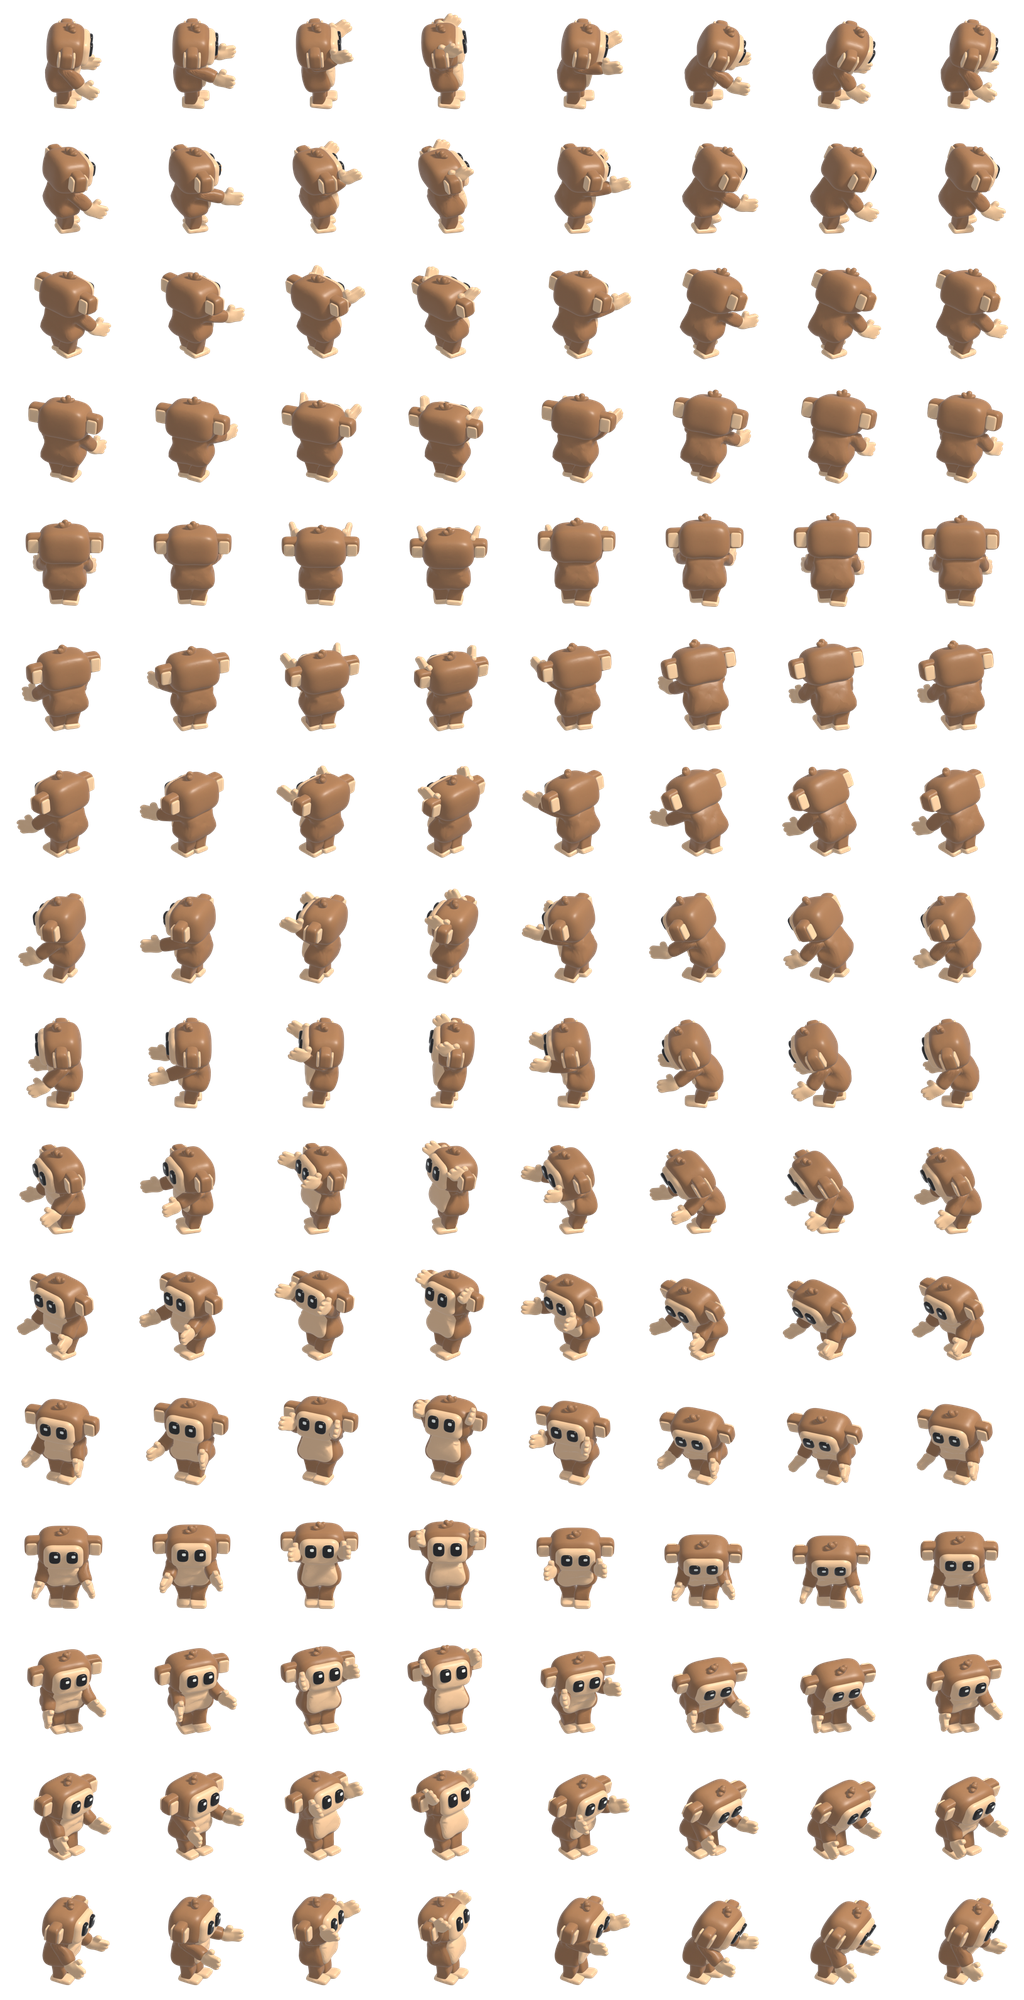
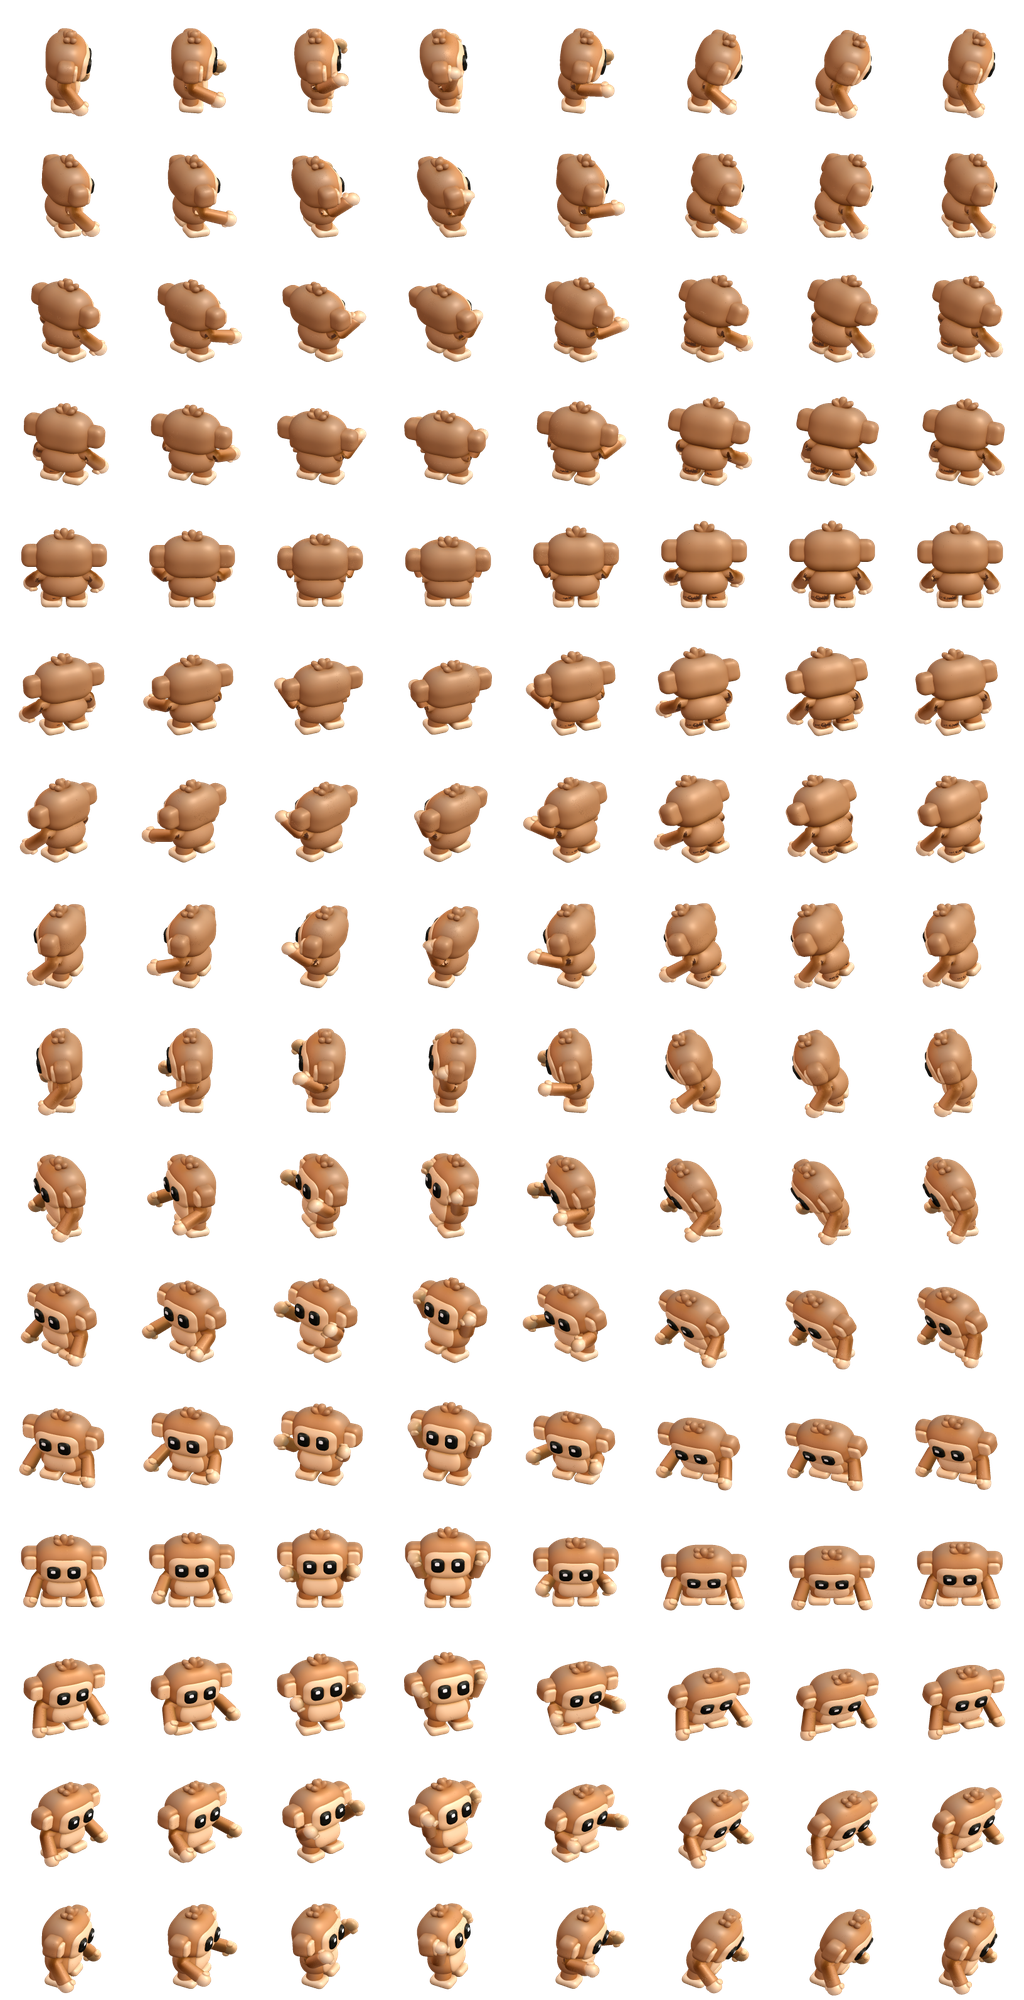
feat(player): render the player sheets from the final monkey model
The final model (no rig, T-pose) goes through the earlier path again:
player_model/build_final.py lets its arms down in Blender, weights it by
regions into model.npz, and player_model.py deforms it with the box poses.
The figure stands 225 units tall instead of 250.

player_rig.py keeps the rigged path and gains --tpose and --views (clay
finish) reference pictures.

Changed region(s): [[0.0, 0.0, 1.0, 1.0]]

diff --git a/artifacts/vox/player/player_model/build_final.py b/artifacts/vox/player/player_model/build_final.py
@@ -1,0 +1,118 @@
+"""Turn the final monkey (Downloads/final_model/model.glb, no rig) into what player_model.py
+draws: the mesh in the figure's space, a colour and six bone weights per vertex.
+
+Runs inside Blender (it reads the GLB and its texture there):
+
+  Blender -b -noaudio --python build_final.py -- <model.glb> <out.npz>
+
+Figure space is monkey.py's: +x forward (the face), +y to its side, z up from the feet. In
+Blender the model stands on z = 0 with its face towards -y, so x = -Y, y = X, z = Z, scaled to
+HEIGHT figure units tall.
+
+This model stands in a T-pose, and the box poses (player_walk.py, …) turn arms that hang down
+the sides; so the arms are first let down here, each turned about its shoulder until it hangs
+ARM_OUT degrees out from the body, and the mesh is kept in that rest pose.
+"""
+import math
+import sys
+
+import bpy
+import numpy as np
+
+HEIGHT = 225.0          # figure units, standing (monkey.py's is 250; lowered on 2026-11-23)
+
+# Where the model's parts meet, in its own units (Blender: Z up, X to the side), read off its
+# outline: the arms stick out sideways between ARM_LOW and ARM_HIGH past the body's side wall.
+ARM_FROM = 0.245        # the body's side wall at the arms' height
+ARM_LOW, ARM_HIGH = 0.275, 0.445
+SHOULDER_OUT = 0.235    # where an arm turns about (x), at the middle of its height
+NECK = 0.455            # the chin: above it is the head (ears and tuft included)
+CROTCH = 0.13           # where the legs join the body
+LEG_OUT = 0.11          # how far out the middle of a leg is
+ARM_OUT = 15            # degrees the let-down arms hang out from the sides
+
+
+def step(t):
+    t = np.clip(t, 0, 1)
+    return t * t * (3 - 2 * t)
+
+
+def load(path):
+    bpy.ops.wm.read_factory_settings(use_empty=True)
+    bpy.ops.import_scene.gltf(filepath=path)
+    obj = next(o for o in bpy.data.objects if o.type == "MESH")
+    me = obj.data
+    me.calc_loop_triangles()
+    n = len(me.vertices)
+    world = np.array(obj.matrix_world)
+    co = np.empty(n * 3)
+    me.vertices.foreach_get("co", co)
+    co = (np.c_[co.reshape(-1, 3), np.ones(n)] @ world.T)[:, :3]
+    nor = np.empty(n * 3)
+    me.vertices.foreach_get("normal", nor)
+    nor = nor.reshape(-1, 3) @ world[:3, :3].T
+    nor /= np.maximum(np.linalg.norm(nor, axis=1, keepdims=True), 1e-9)
+    tris = np.empty(len(me.loop_triangles) * 3, np.int32)
+    me.loop_triangles.foreach_get("vertices", tris)
+    uvl = np.empty(len(me.loops) * 2)
+    me.uv_layers.active.data.foreach_get("uv", uvl)
+    lv = np.empty(len(me.loops), np.int64)
+    me.loops.foreach_get("vertex_index", lv)
+    uv = np.zeros((n, 2))
+    uv[lv] = uvl.reshape(-1, 2)
+    image = next(i for i in bpy.data.images if not any(k in i.name for k in ("normal", "metallic", "rough")))
+    w, h = image.size
+    px = np.empty(w * h * 4, np.float32)
+    image.pixels.foreach_get(px)
+    px = px.reshape(h, w, 4)
+    colour = px[np.clip((uv[:, 1] * h).astype(int), 0, h - 1), np.clip((uv[:, 0] * w).astype(int), 0, w - 1), :3]
+    # The texture is stored as sRGB and Blender hands its pixels back as they are stored.
+    return co, nor, tris.reshape(-1, 3), colour
+
+
+def main():
+    src, out = sys.argv[sys.argv.index("--") + 1:][:2]
+    co, nor, faces, colour = load(src)
+    X, Z = co[:, 0], co[:, 2]
+    arm = (step((np.abs(X) - ARM_FROM) / 0.02) * step((Z - ARM_LOW) / 0.015)
+           * (1 - step((Z - ARM_HIGH) / 0.015)))
+    head = step((Z - NECK) / 0.02)
+    leg = step((CROTCH - Z) / 0.03) * (1 - arm)
+    side = step((X + 0.03) / 0.06)
+    w = np.zeros((len(co), 6), np.float32)
+    w[:, 1] = head
+    rest = 1 - head
+    w[:, 2] = rest * arm * (X > 0)
+    w[:, 3] = rest * arm * (X <= 0)
+    w[:, 4] = rest * (1 - arm) * leg * side
+    w[:, 5] = rest * (1 - arm) * leg * (1 - side)
+    w[:, 0] = 1 - w[:, 1:].sum(axis=1)
+
+    # Let the arms down: each turned about its shoulder (about the forward axis, Blender's y),
+    # blended by its weight so the shoulder bends instead of tearing.
+    shoulder_z = (ARM_LOW + ARM_HIGH) / 2
+    for bone, sign in ((2, 1), (3, -1)):
+        a = math.radians(-sign * (90 - ARM_OUT))
+        c, s = math.cos(a), math.sin(a)
+        turn = np.array([[c, 0, -s], [0, 1, 0], [s, 0, c]])     # about y: x towards -z for a > 0
+        pivot = np.array([sign * SHOULDER_OUT, 0, shoulder_z])
+        k = w[:, bone:bone + 1]
+        co = co + k * ((co - pivot) @ turn.T + pivot - co)
+        nor = nor + k * (nor @ turn.T - nor)
+    nor /= np.maximum(np.linalg.norm(nor, axis=1, keepdims=True), 1e-9)
+
+    scale = HEIGHT / (co[:, 2].max() - co[:, 2].min())
+    co[:, 2] -= co[:, 2].min()
+    figure = np.stack([-co[:, 1], co[:, 0], co[:, 2]], axis=1) * scale
+    normals = np.stack([-nor[:, 1], nor[:, 0], nor[:, 2]], axis=1)
+    joints = np.array([(0, 0, 0.28), (0, 0, NECK + 0.01), (0, SHOULDER_OUT, shoulder_z),
+                       (0, -SHOULDER_OUT, shoulder_z), (0, LEG_OUT, CROTCH), (0, -LEG_OUT, CROTCH)],
+                      np.float32) * scale
+    # Wound so the renderer's FRONT_SIGN keeps the outside: the glTF's triangles run the other way.
+    np.savez_compressed(out, v=figure.astype(np.float32), n=normals.astype(np.float16),
+                        c=(np.clip(colour, 0, 1) * 255).round().astype(np.uint8),
+                        w=(w * 255).round().astype(np.uint8), f=faces, joints=joints)
+    print("ok", len(co), "vertices", len(faces), "faces", "scale %.1f" % scale)
+
+
+main()
